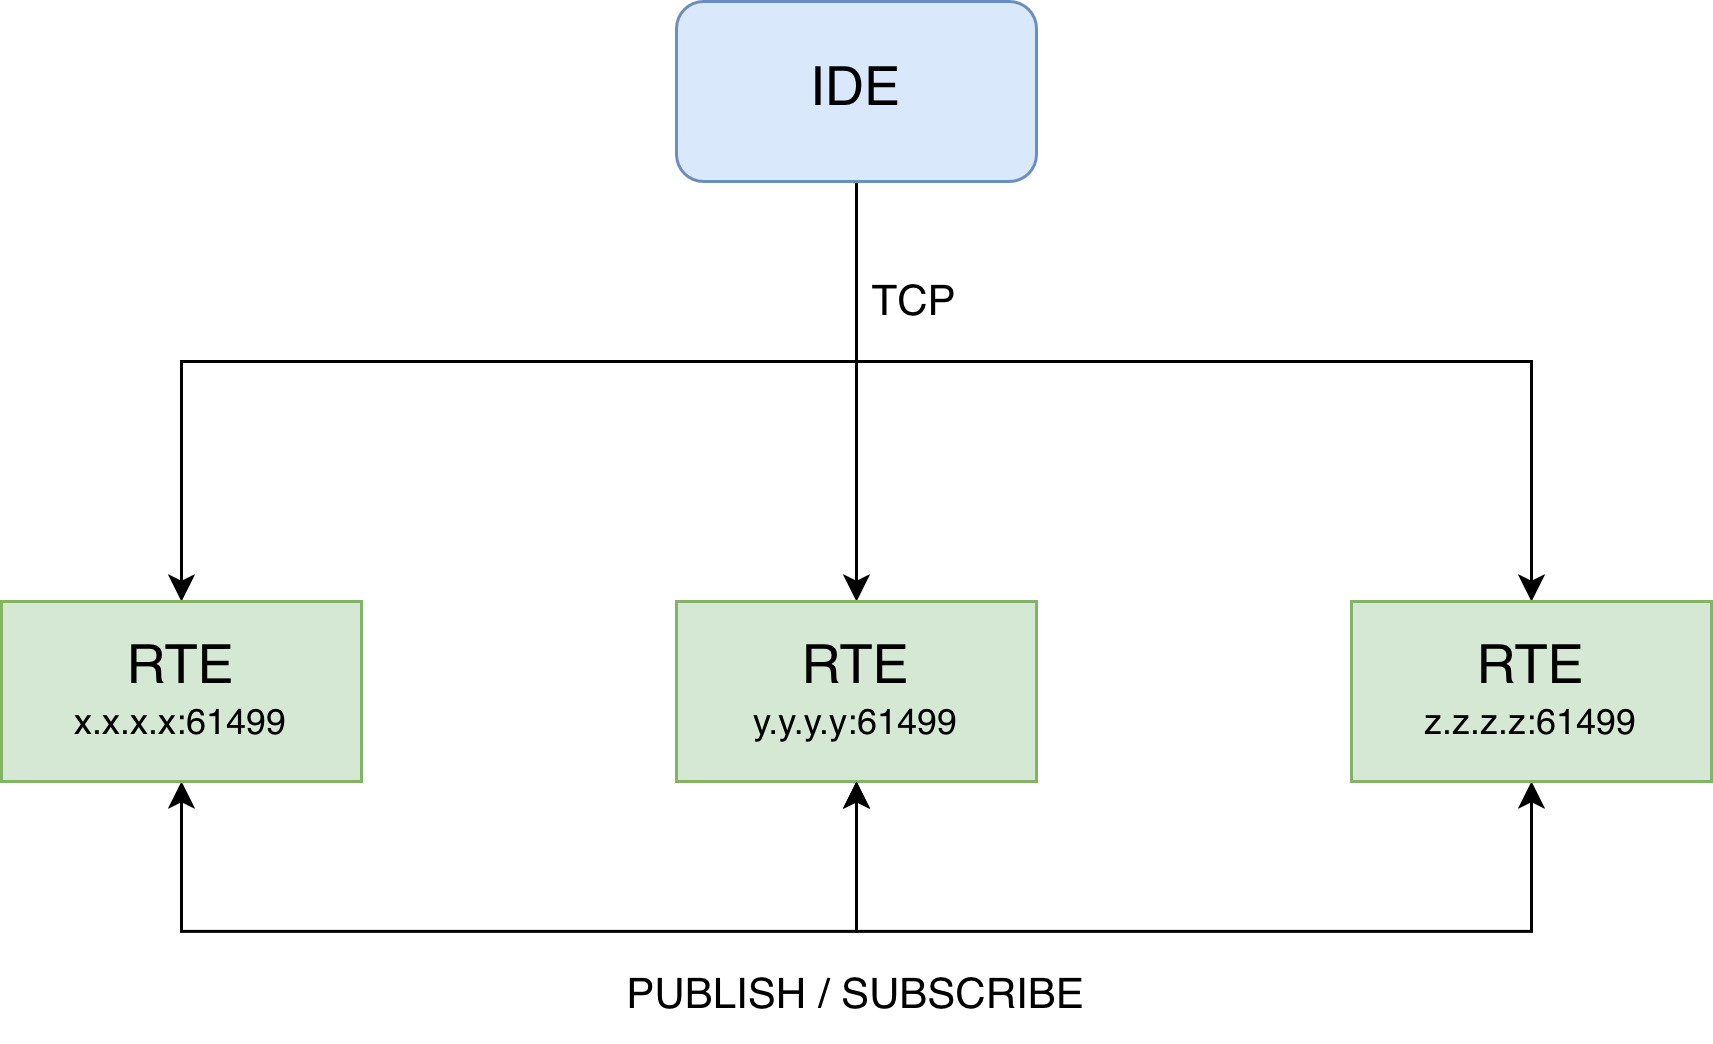
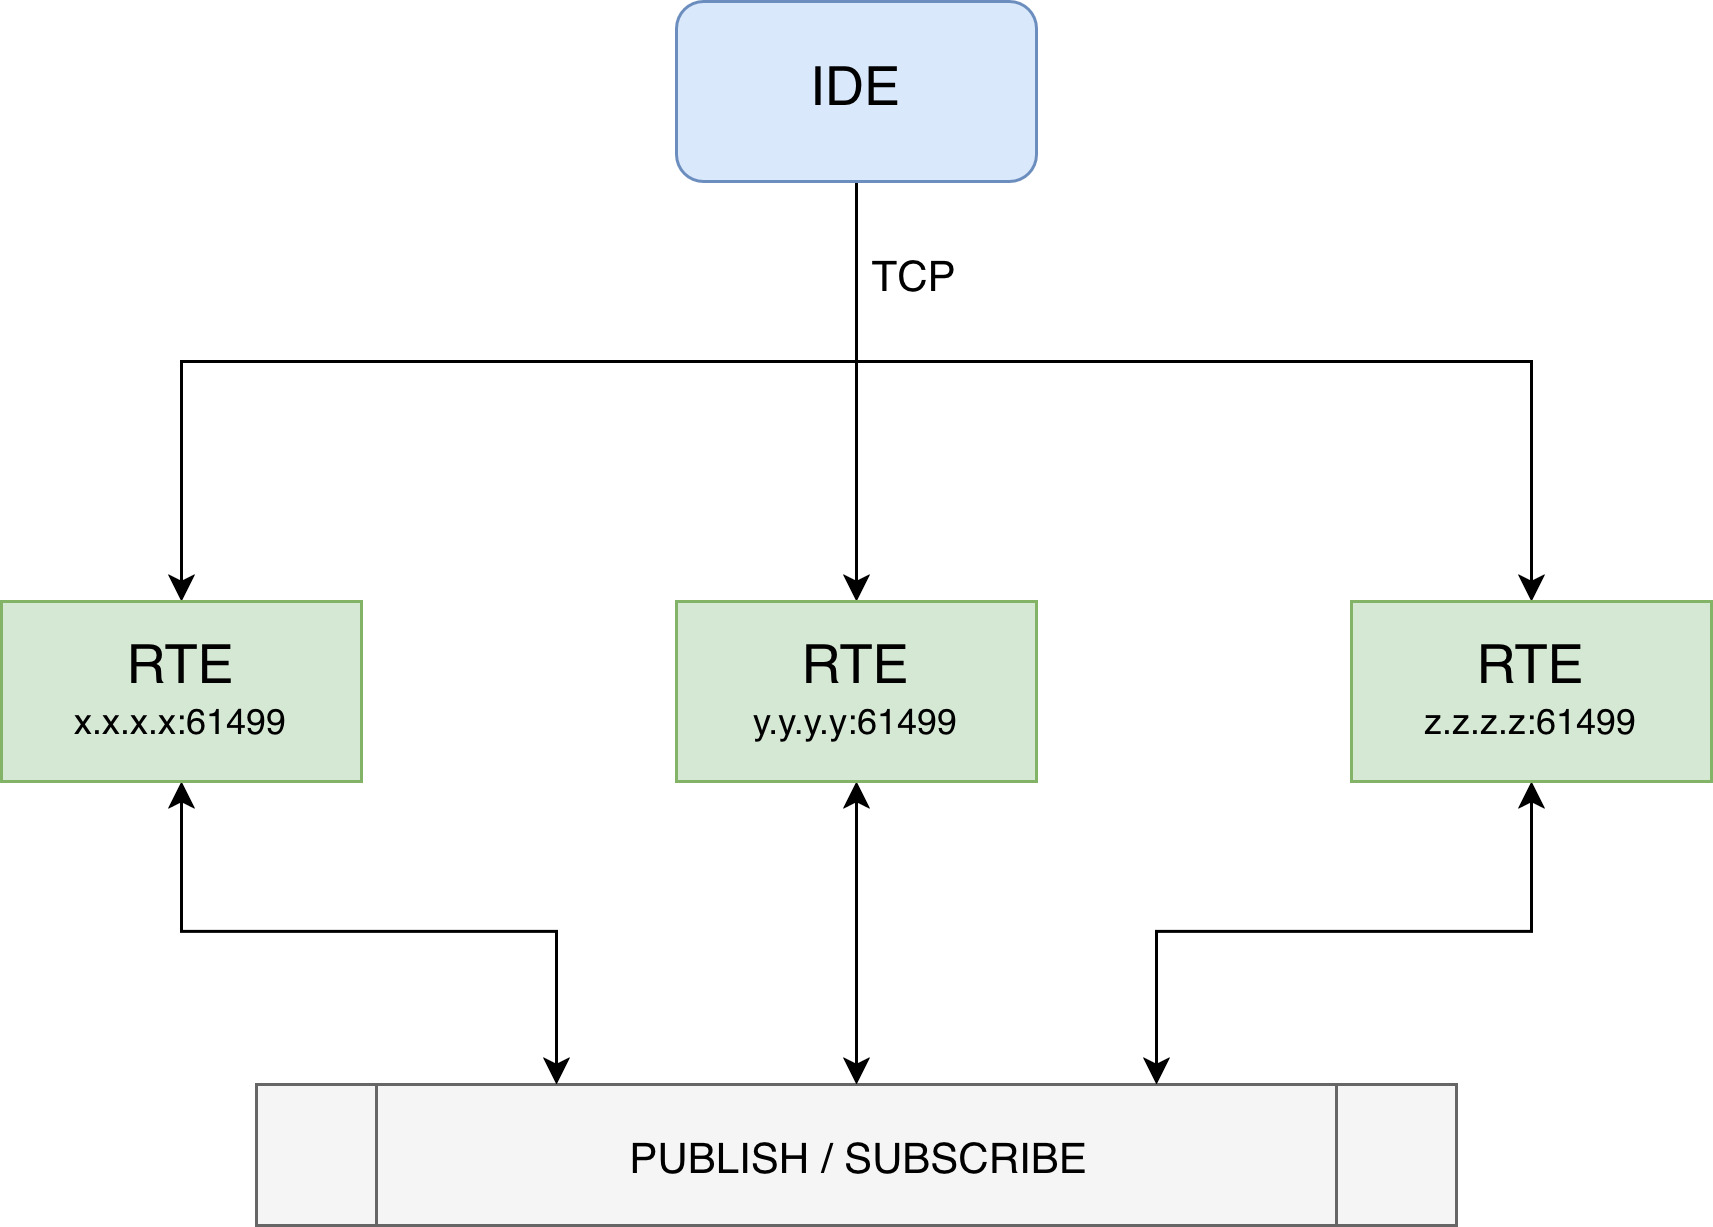
[report] new research questions

diff --git a/report/body/chapter1.tex b/report/body/chapter1.tex
@@ -26,7 +26,7 @@ Conversely, \acp{IDE} are responsible for the design, configuration, and deploym
 \end{figure}
 
 \begin{figure}[H]
-  \includegraphics[width=\linewidth]{ide-rte.jpg}
+  \includegraphics[width=0.8\linewidth]{ide-rte.jpg}
   \caption{Communications between \ac{IDE} and \acp{RTE}}
   \label{fig:ide-rte}
 \end{figure}
@@ -41,11 +41,14 @@ Existing \textit{IEC 61499} development environments lack modern capabilities su
 \section{Research Questions}
 This research seeks to investigate how modern web and distribution technologies can be leveraged to enhance the development, deployment, and operation of \textit{IEC 61499}-compliant systems. This study is guided by the following main research question:
 \begin{quote}
-How can we design \acp{IDE} that improve the development, deployment, and collaboration processes for \textit{IEC 61499} applications in distributed \ac{CPPS}?
+How can a web-based \ac{IDE} support the modelling, deployment and execution of \textit{IEC 61499} applications?
 \end{quote}
 
-\noindent To further refine the scope, the following sub-question is proposed:
+\noindent To further refine the scope, the following sub-questions are proposed:
 \begin{quote}
-   What architectural and technological requirements must be considered when designing an \ac{IDE} for \textit{IEC 61499}?
+To what extent can collaborative web technologies improve \textit{IEC 61499} engineering workflows compared with traditional desktop \acp{IDE}?
 \end{quote}
-% TODO would like another question
+
+\begin{quote}
+What are the performance and usability implications of adopting a web-based collaborative architecture for \textit{IEC 61499} engineering?
+\end{quote}